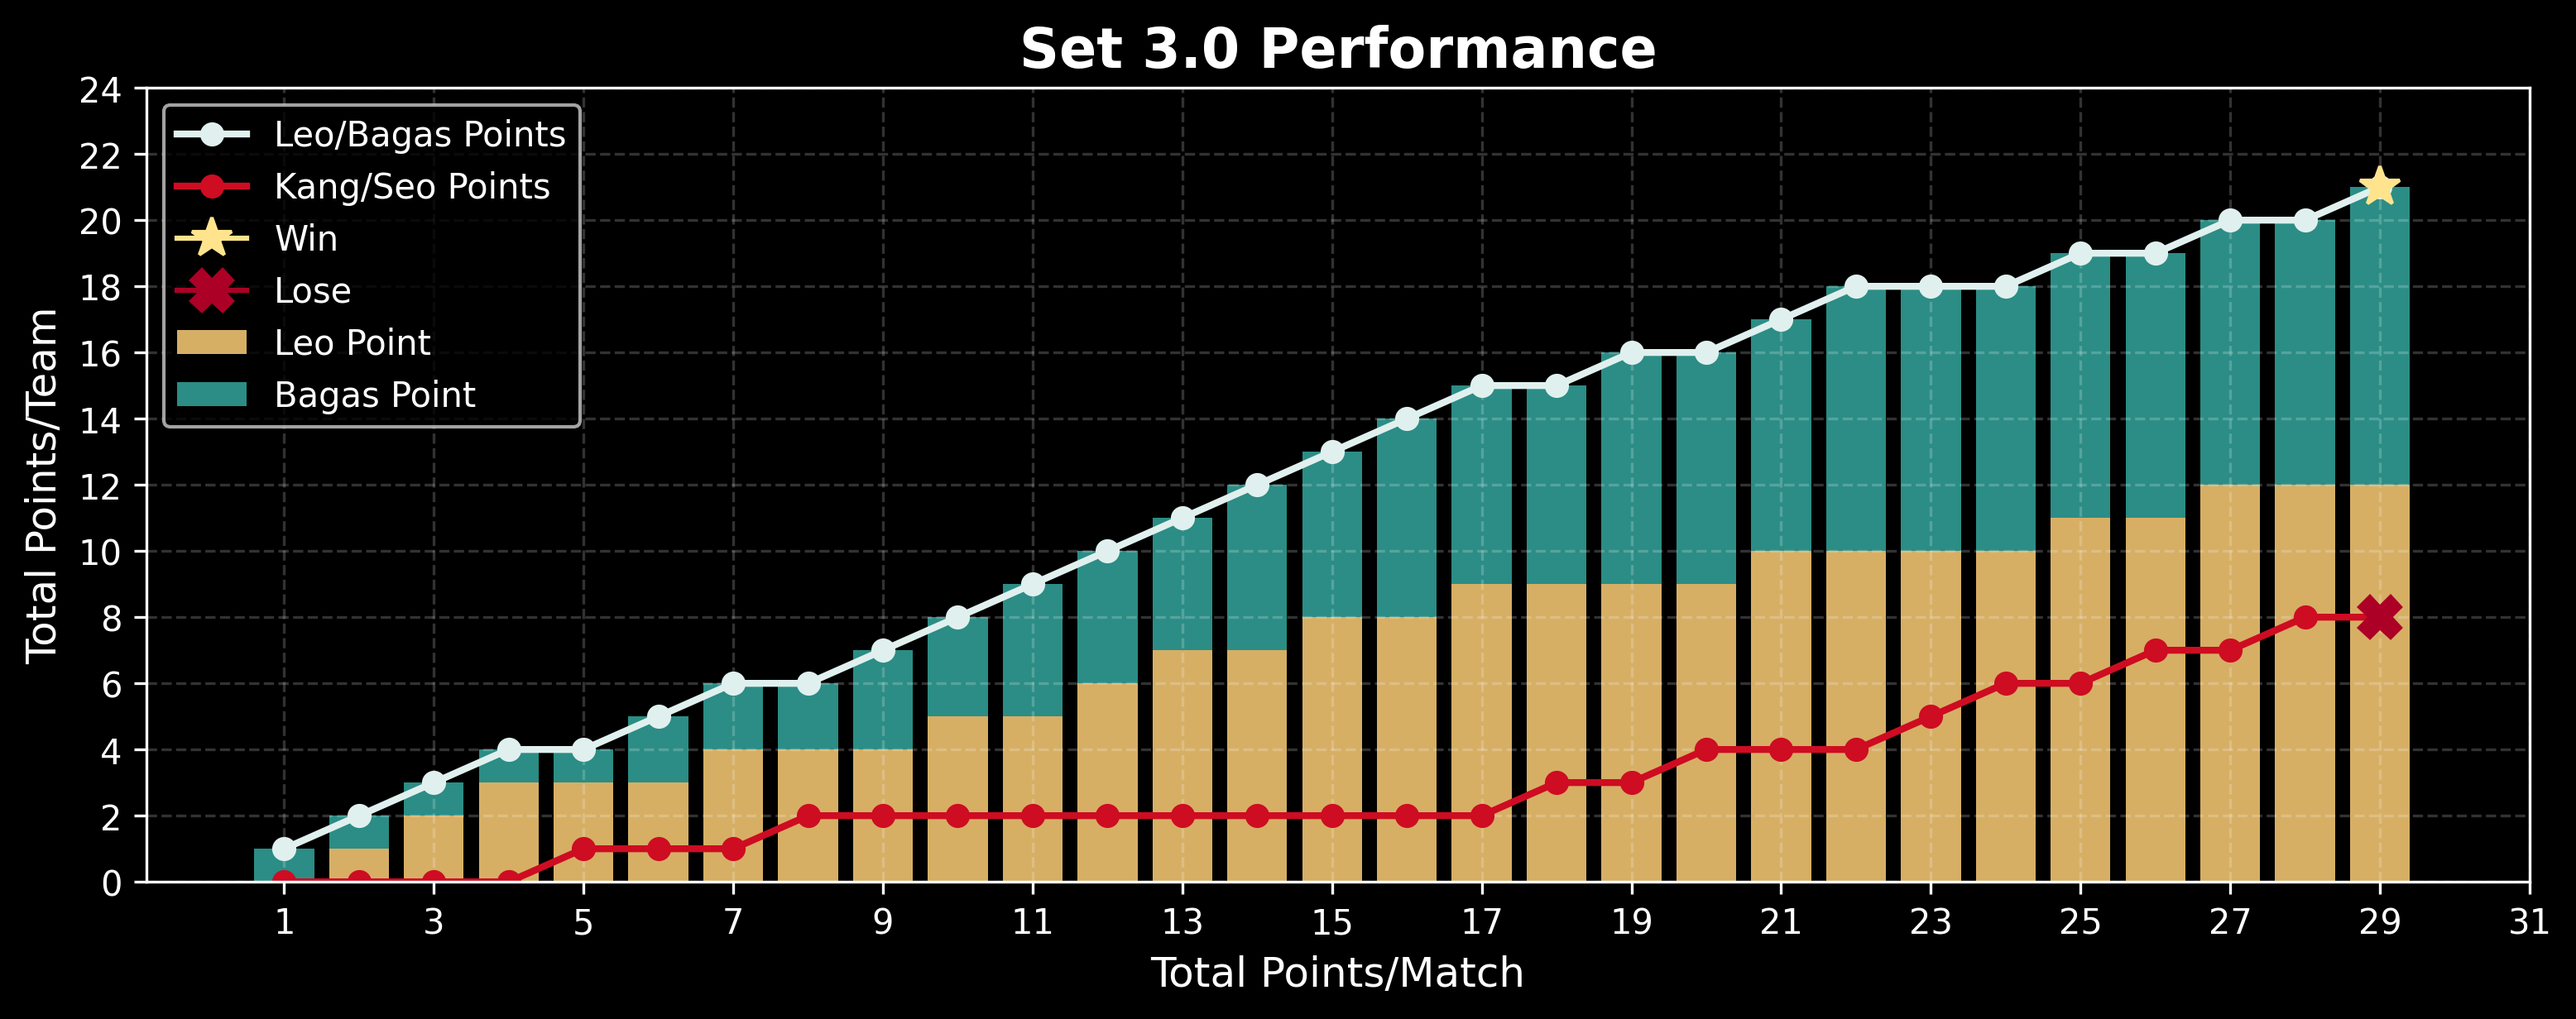
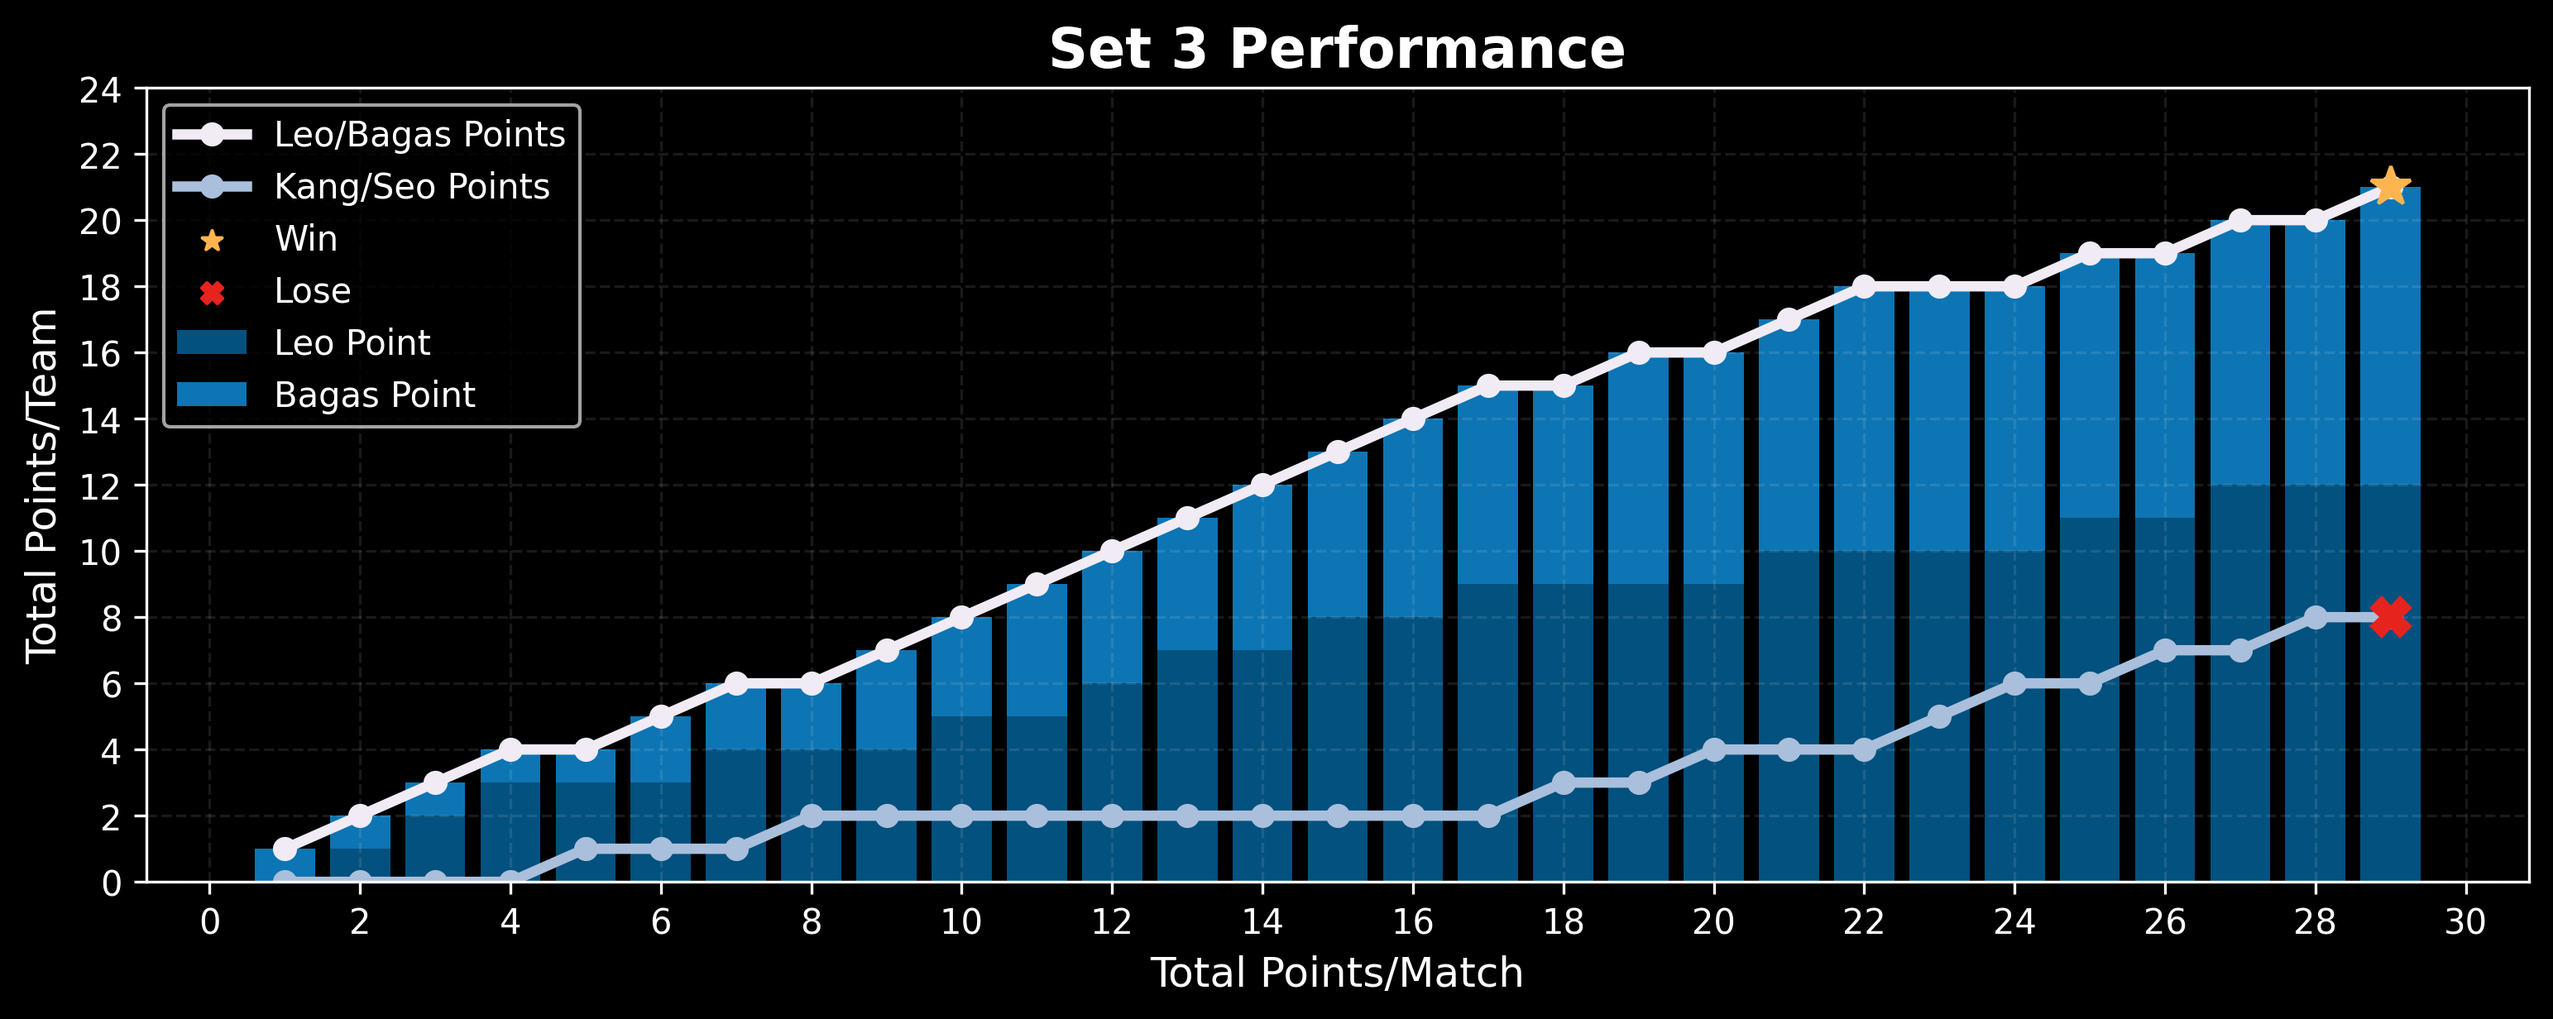
update stacked bar

diff --git a/LeoBagasStatistic/PlotData.py b/LeoBagasStatistic/PlotData.py
@@ -22,8 +22,9 @@ for number_of_set in df['Set'].unique():
     }
 
 # Define a color palette suitable for dark backgrounds
-colors = sns.color_palette("BrBG", 10)
+colors = sns.color_palette("PuBu", 10)
 colors2 = sns.color_palette("YlOrRd", 10)
+colors3 = sns.color_palette("Reds",10)
 
 # Plotting the data for each set
 for set_number in data_by_set:
@@ -45,39 +46,43 @@ for set_number in data_by_set:
           leototal += 1
         elif exec == "Bagas" and sts != "Fail":
           bagastotal += 1
-      
+
         leopoint.append(leototal)
         bagaspoint.append(bagastotal)
-    
+
     # Create a figure and axis
     plt.figure(figsize=(12, 4))
     plt.style.use('dark_background')  # Set a dark background style
 
     # Plot each line
-    plt.plot(total_point, leobagas_point, label='Leo/Bagas Points', color=colors[5], marker='o', linewidth=2)
-    plt.bar(total_point, leopoint, label='Leo Point', color=colors[2])
-    plt.bar(total_point, bagaspoint, bottom=leopoint, label='Bagas Point', color=colors[8])
+    plt.plot(total_point, leobagas_point, label='Leo/Bagas Points', color=colors[0], marker='o', linewidth=3)
+    plt.bar(total_point, leopoint, label='Leo Point', color=colors[9])
+    plt.bar(total_point, bagaspoint, bottom=leopoint, label='Bagas Point', color=colors[7])
 
-    plt.plot(total_point, kangseo_point, label='Kang/Seo Points', color=colors2[8], marker='o', linewidth=2)
+    plt.plot(total_point, kangseo_point, label='Kang/Seo Points', color=colors[3], marker='o', linewidth=3)
 
     if max(kangseo_point) > max(leobagas_point):
-      plt.plot(max(total_point), max(kangseo_point), color = colors2[1], marker = "*", markersize=12, label='Win')
-      plt.plot(max(total_point), max(leobagas_point), color = colors2[9], marker = "X", markersize=12, label='Lose')
+      plt.plot(max(total_point), max(kangseo_point), color = colors2[3], marker = "*", markersize=12)
+      plt.plot(max(total_point), max(leobagas_point), color = colors2[7], marker = "X", markersize=11)
+      plt.scatter(max(total_point), max(kangseo_point), color = colors2[3], marker = "*", label='Win')
+      plt.scatter(max(total_point), max(leobagas_point), color = colors2[7], marker = "X", label='Lose')
     if max(leobagas_point) > max(kangseo_point):
-      plt.plot(max(total_point), max(leobagas_point), color = colors2[1], marker = "*", markersize=12, label='Win')
-      plt.plot(max(total_point), max(kangseo_point), color = colors2[9], marker = "X", markersize=12, label='Lose')
+      plt.plot(max(total_point), max(leobagas_point), color = colors2[3], marker = "*", markersize=12)
+      plt.plot(max(total_point), max(kangseo_point), color = colors2[7], marker = "X", markersize=11)
+      plt.scatter(max(total_point), max(leobagas_point), color = colors2[3], marker = "*", label='Win')
+      plt.scatter(max(total_point), max(kangseo_point), color = colors2[7], marker = "X", label='Lose')
 
     # Adding titles and labels
-    plt.title(f'Set {set_number} Performance', fontsize=16, fontweight='bold', color='white')
+    plt.title(f'Set {int(set_number)} Performance', fontsize=16, fontweight='bold', color='white')
     plt.xlabel('Total Points/Match', fontsize=12, color='white')
     plt.ylabel('Total Points/Team', fontsize=12, color='white')
     plt.legend(loc='upper left', fontsize=10)
 
     # Customize the grid
-    plt.grid(True, linestyle='--', alpha=0.2)
+    plt.grid(True, linestyle='--', alpha=0.1)
 
     # Set grid lines to appear every 2 points
-    plt.xticks(np.arange(min(total_point), max(total_point) + 3, 2), color='white')
+    plt.xticks(np.arange(0, max(total_point) + 3, 2), color='white')
     plt.yticks(np.arange(0, max(max(leobagas_point), max(kangseo_point)) + 5, 2), color='white')
 
     # Set the background color
